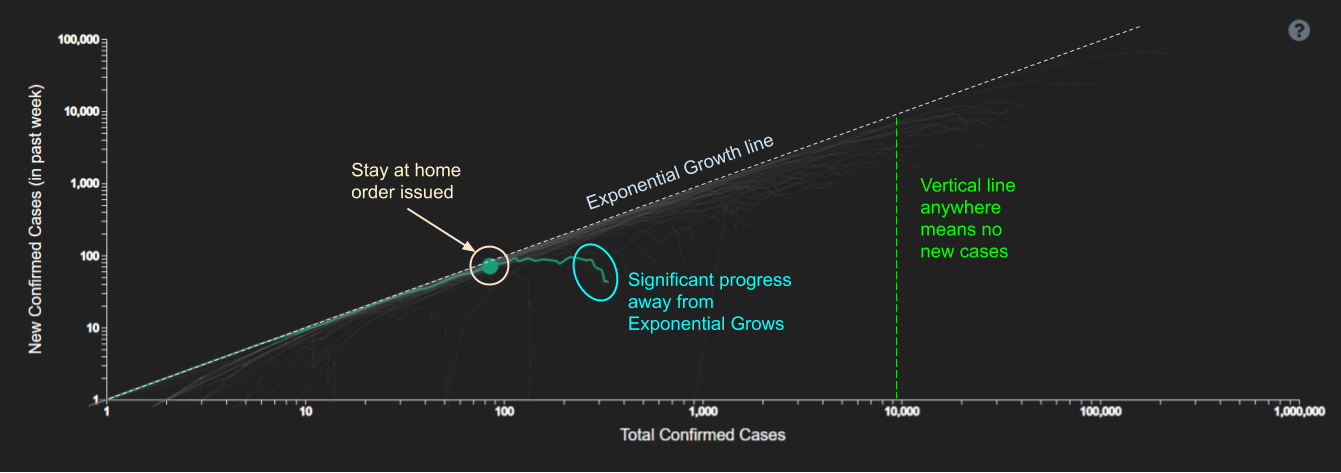
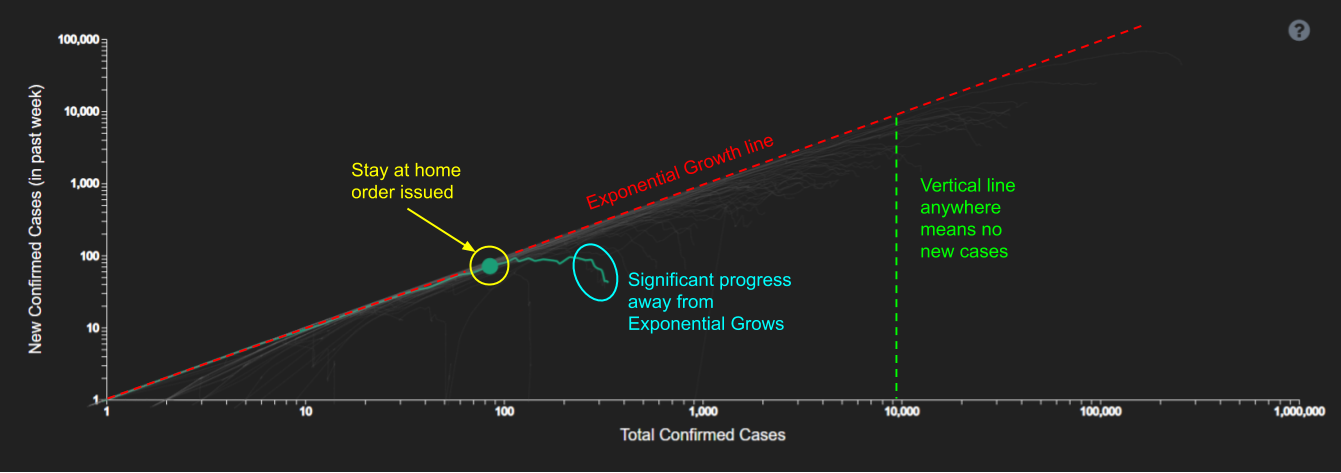
Updating styling of modal

diff --git a/index.html b/index.html
@@ -128,7 +128,7 @@
                                 <li class="modal-text em-red" ><em>Exponential growth line</em>: Given by x=y, this line denotes where exponential growth in cases is occuring</li>
                                 <li class="modal-text em-green" ><em>A vertical line</em> would indicate that there was no new cases of COVID-19, that is the eventual goal</li>
                                 <li class="modal-text em-blue" > Look for <em>significant deviation from the exponential growth line </em>, with significant downward trends to see a state experiencing "flattening the curve" </li>
-                                <li class="modal-text" >"Stay at Home" orders issued by each state goverment mark the number of total cases a state had</li>
+                                <li class="modal-text em-yellow"><em> Stay at Home</em> legislative orders issued by each state goverment mark the number of total cases a state had</li>
                             </ul>
                         </div>
                     </div>

diff --git a/css/style.css b/css/style.css
@@ -220,7 +220,7 @@ circle-packs {
 }
 
 .em-red em{
-	color: #f74a4a ;
+	color: #ff1f1f ;
 }
 
 .em-green em{
